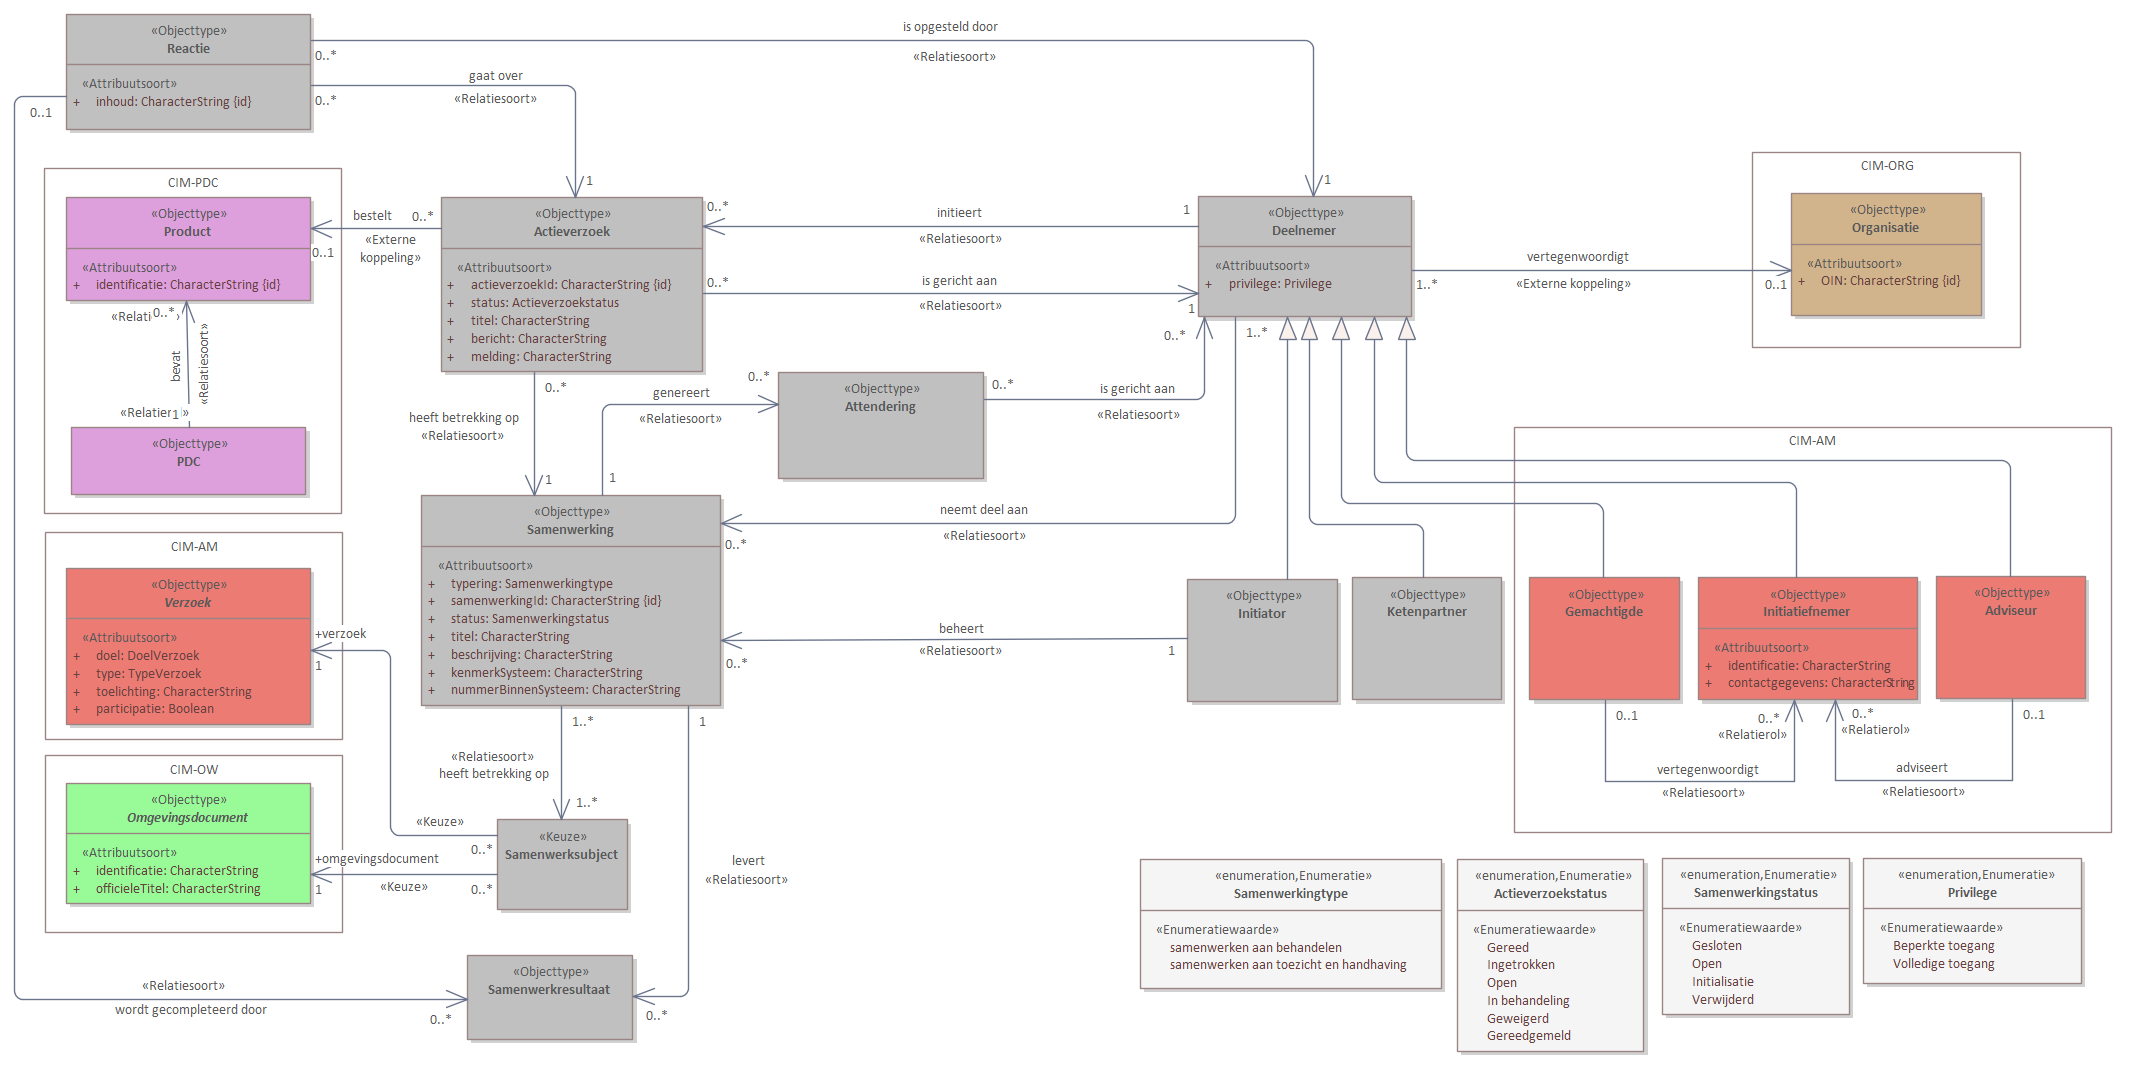
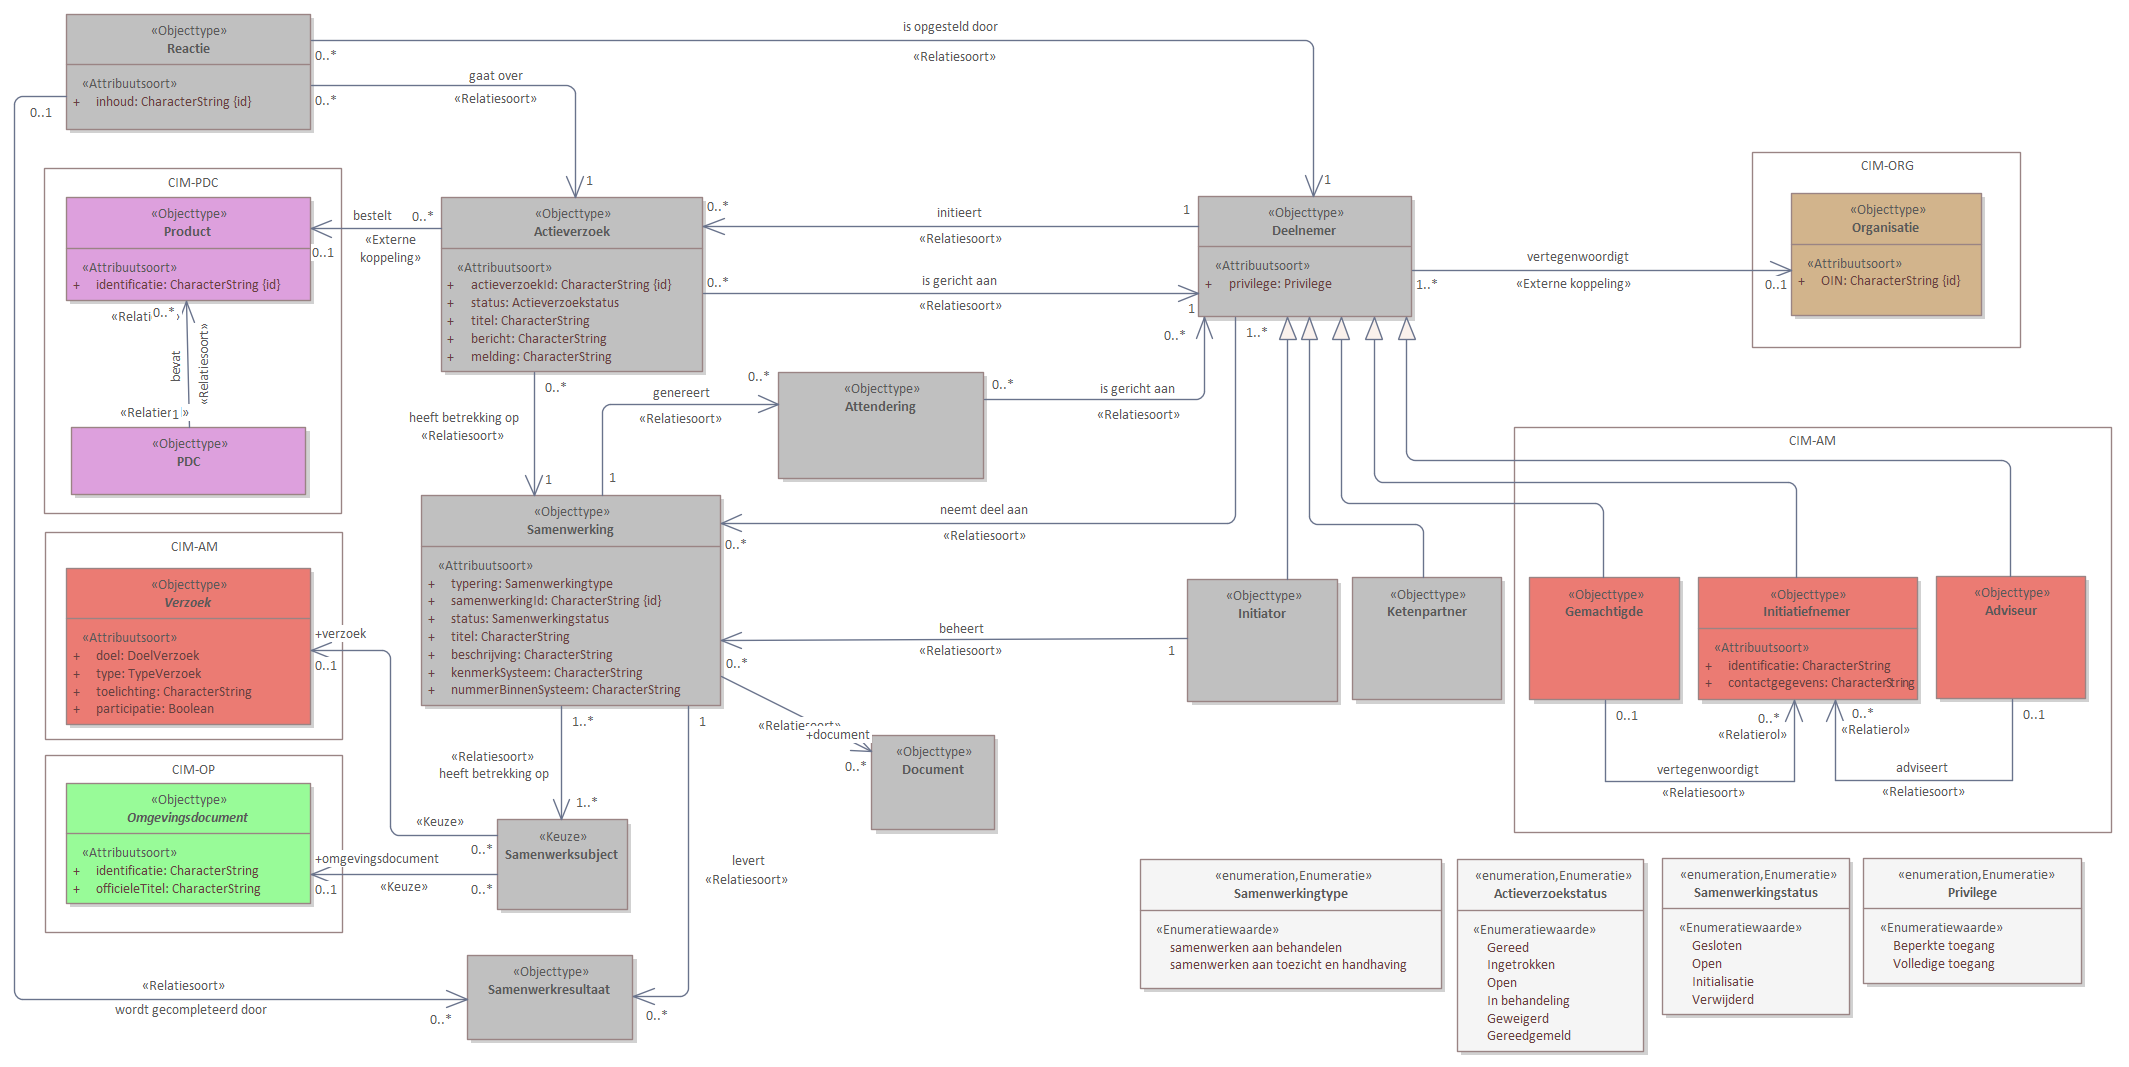
MIMCM-dso-cim-swf-1.0-0-20250101-20250416-142529

Changed region(s): [[0.372, 0.6804, 0.496, 0.8041]]

diff --git a/data/dso-cim-swf-cat.respec.html b/data/dso-cim-swf-cat.respec.html
@@ -1,12 +1,12 @@
-<!DOCTYPE HTML><section id="cat" class="normative"><h2>Gegevensdefinitie</h2><!--MIMCM-dso-cim-swf-1.0-0-20250101-20250205-112045 imvertor 4.3.0--><section id="EAID_148B391E_CCDB_471c_A289_54DA7F6CA2B1"><h3>   Context - overzicht</h3><div class="imageinfo overview"><figure class="uml-diagram"><img id="EAID_148B391E_CCDB_471c_A289_54DA7F6CA2B1" src="data/Images/EAID_148B391E_CCDB_471c_A289_54DA7F6CA2B1.png" usemap="#imagemap-EAID_148B391E_CCDB_471c_A289_54DA7F6CA2B1" alt="Diagram: Context - overzicht"><figcaption> ‒ Diagram: Context</figcaption></figure><map name="imagemap-EAID_148B391E_CCDB_471c_A289_54DA7F6CA2B1"></map><p>
+<!DOCTYPE HTML><section id="cat" class="normative"><h2>Gegevensdefinitie</h2><!--MIMCM-dso-cim-swf-1.0-0-20250101-20250416-142529 imvertor 4.3.0--><section id="EAID_148B391E_CCDB_471c_A289_54DA7F6CA2B1"><h3>   Context - overzicht</h3><div class="imageinfo overview"><figure class="uml-diagram"><img id="EAID_148B391E_CCDB_471c_A289_54DA7F6CA2B1" src="data/Images/EAID_148B391E_CCDB_471c_A289_54DA7F6CA2B1.png" usemap="#imagemap-EAID_148B391E_CCDB_471c_A289_54DA7F6CA2B1" alt="Diagram: Context - overzicht"><figcaption> ‒ Diagram: Context</figcaption></figure><map name="imagemap-EAID_148B391E_CCDB_471c_A289_54DA7F6CA2B1"></map><p>
                         <p></p>
-                     </p></div></section><section id="EAID_C94DE3A6_BF9B_4ca3_ADEC_2B78A1F24327"><h3>   CIM-SWF - overzicht</h3><div class="imageinfo overview"><figure class="uml-diagram"><img id="EAID_C94DE3A6_BF9B_4ca3_ADEC_2B78A1F24327" src="data/Images/EAID_C94DE3A6_BF9B_4ca3_ADEC_2B78A1F24327.png" usemap="#imagemap-EAID_C94DE3A6_BF9B_4ca3_ADEC_2B78A1F24327" alt="Diagram: CIM-SWF - overzicht"><figcaption> ‒ Diagram: CIM-SWF</figcaption></figure><map name="imagemap-EAID_C94DE3A6_BF9B_4ca3_ADEC_2B78A1F24327"><area shape="rect" alt="Samenwerksubject" coords="497,819,628,910" href="#global_class_CIMSWF_Samenwerksubject"><area shape="rect" alt="Reactie" coords="66,14,311,130" href="#global_class_CIMSWF_Reactie"><area shape="rect" alt="Samenwerkresultaat" coords="467,955,633,1040" href="#global_class_CIMSWF_Samenwerkresultaat"><area shape="rect" alt="Actieverzoekstatus" coords="1457,859,1644,1052" href="#detail_class_CIMSWF_Actieverzoekstatus"><area shape="rect" alt="Samenwerkingstatus" coords="1662,858,1850,1015" href="#detail_class_CIMSWF_Samenwerkingstatus"><area shape="rect" alt="Privilege" coords="1863,858,2082,984" href="#detail_class_CIMSWF_Privilege"><area shape="rect" alt="Samenwerkingtype" coords="1140,859,1442,989" href="#detail_class_CIMSWF_Samenwerkingtype"><area shape="rect" alt="Attendering" coords="778,372,984,479" href="#global_class_CIMSWF_Attendering"><area shape="rect" alt="Actieverzoek" coords="441,197,703,372" href="#global_class_CIMSWF_Actieverzoek"><area shape="rect" alt="Ketenpartner" coords="1352,577,1502,700" href="#global_class_CIMSWF_Ketenpartner"><area shape="rect" alt="Initiator" coords="1187,579,1338,702" href="#global_class_CIMSWF_Initiator"><area shape="rect" alt="Deelnemer" coords="1198,196,1412,317" href="#global_class_CIMSWF_Deelnemer"><area shape="rect" alt="Samenwerking" coords="421,495,721,706" href="#global_class_CIMSWF_Samenwerking"></map><p>
+                     </p></div></section><section id="EAID_C94DE3A6_BF9B_4ca3_ADEC_2B78A1F24327"><h3>   CIM-SWF - overzicht</h3><div class="imageinfo overview"><figure class="uml-diagram"><img id="EAID_C94DE3A6_BF9B_4ca3_ADEC_2B78A1F24327" src="data/Images/EAID_C94DE3A6_BF9B_4ca3_ADEC_2B78A1F24327.png" usemap="#imagemap-EAID_C94DE3A6_BF9B_4ca3_ADEC_2B78A1F24327" alt="Diagram: CIM-SWF - overzicht"><figcaption> ‒ Diagram: CIM-SWF</figcaption></figure><map name="imagemap-EAID_C94DE3A6_BF9B_4ca3_ADEC_2B78A1F24327"><area shape="rect" alt="Samenwerksubject" coords="497,819,628,910" href="#global_class_CIMSWF_Samenwerksubject"><area shape="rect" alt="Reactie" coords="66,14,311,130" href="#global_class_CIMSWF_Reactie"><area shape="rect" alt="Samenwerkresultaat" coords="467,955,633,1040" href="#global_class_CIMSWF_Samenwerkresultaat"><area shape="rect" alt="Actieverzoekstatus" coords="1457,859,1644,1052" href="#detail_class_CIMSWF_Actieverzoekstatus"><area shape="rect" alt="Samenwerkingstatus" coords="1662,858,1850,1015" href="#detail_class_CIMSWF_Samenwerkingstatus"><area shape="rect" alt="Privilege" coords="1863,858,2082,984" href="#detail_class_CIMSWF_Privilege"><area shape="rect" alt="Samenwerkingtype" coords="1140,859,1442,989" href="#detail_class_CIMSWF_Samenwerkingtype"><area shape="rect" alt="Attendering" coords="778,372,984,479" href="#global_class_CIMSWF_Attendering"><area shape="rect" alt="Actieverzoek" coords="441,197,703,372" href="#global_class_CIMSWF_Actieverzoek"><area shape="rect" alt="Ketenpartner" coords="1352,577,1502,700" href="#global_class_CIMSWF_Ketenpartner"><area shape="rect" alt="Initiator" coords="1187,579,1338,702" href="#global_class_CIMSWF_Initiator"><area shape="rect" alt="Deelnemer" coords="1198,196,1412,317" href="#global_class_CIMSWF_Deelnemer"><area shape="rect" alt="Samenwerking" coords="421,495,721,706" href="#global_class_CIMSWF_Samenwerking"><area shape="rect" alt="Document" coords="871,735,995,830" href="#global_class_CIMSWF_Document"></map><p>
                         <p></p>
                      </p></div></section><section><h3>Objecttypen   </h3>
             <section id="global_class_CIMSWF_Samenwerkresultaat"><h4>   Samenwerkresultaat</h4>
                <table style="width: 100%;"><colgroup style="width: 30%;"></colgroup><colgroup style="width: 70%;"></colgroup><tbody><tr><th>Naam</th><td>Samenwerkresultaat</td></tr><tr><th>Definitie</th><td>
                         
-                              <p>Digitaal artefact dat ontstaat tijdens de samenwerking, of resulteert als uitkomst van een samenwerking, en dat wordt bewaard in het samenwerkdossier.</p>
+                              <p>Uitkomst van de samenwerking, bijvoorbeeld een beslissing genomen over een vergunningsaanvraag.</p>
                            
                      </td></tr><tr><th>Indicatie abstract object</th><td>Nee</td></tr></tbody></table>
             </section>
@@ -141,6 +141,16 @@
                <h5>Overzicht relaties  </h5>
                   <table style="width: 100%;"><colgroup style="width: 50%;"></colgroup><colgroup style="width: 50%;"></colgroup><tbody><tr><th>Relatienaam met kardinaliteiten</th><th>Definitie</th></tr><tr><td>
                            Samenwerking
+                           [ 1 ]
+                           
+                              <a class="link" href="#detail_association_CIMSWF_Samenwerking_document">document: document</a>
+                           
+                           
+                              <a class="link" href="#global_class_CIMSWF_Document">Document</a>
+                           
+                           [ 0 .. * ]
+                        </td><td></td></tr><tr><td>
+                           Samenwerking
                            [ 1 .. * ]
                            
                               <a class="link" href="#detail_association_CIMSWF_Samenwerking_heeftbetrekkingop">heeft betrekking op</a>
@@ -172,6 +182,13 @@
                         </td><td></td></tr></tbody></table>
                   
                
+            </section>
+            <section id="global_class_CIMSWF_Document"><h4>   Document</h4>
+               <table style="width: 100%;"><colgroup style="width: 30%;"></colgroup><colgroup style="width: 70%;"></colgroup><tbody><tr><th>Naam</th><td>Document</td></tr><tr><th>Definitie</th><td>
+                        
+                              <p>Document dat betrekking heeft op de samenwerking</p>
+                           
+                     </td></tr><tr><th>Indicatie abstract object</th><td>Nee</td></tr></tbody></table>
             </section>
             <section id="global_class_CIMSWF_Deelnemer"><h4>   Deelnemer</h4>
                <table style="width: 100%;"><colgroup style="width: 30%;"></colgroup><colgroup style="width: 70%;"></colgroup><tbody><tr><th>Naam</th><td>Deelnemer</td></tr><tr><th>Definitie</th><td>
@@ -351,7 +368,7 @@
             <section id="global_class_CIMSWF_Samenwerksubject"><h4>   Samenwerksubject</h4>
                <table style="width: 100%;"><colgroup style="width: 30%;"></colgroup><colgroup style="width: 70%;"></colgroup><tbody><tr><th>Naam</th><td>Samenwerksubject</td></tr><tr><th>Definitie</th><td>
                         
-                              <p>Het artefact waarop de samenwerking is gebaseerd. Bij samenwerken aan behandelen is dit een verzoek, bij samenwerken aan toezicht en handhaving is dat een omgevingsvergunning (omgevingsdocument).</p>
+                              <p>Het onderwerp van de samenwerking. Bij samenwerken aan behandelen is dit een verzoek, bij samenwerken aan toezicht en handhaving kan dat een omgevingsvergunning (omgevingsdocument) zijn. Ook, andere (nog) niet-geformaliseerde entiteiten kunnen onderwerp van samenwerking zijn. De opsomming in het model is dus niet-limitatief.</p>
                            
                      </td></tr></tbody></table>
             </section>
@@ -450,6 +467,12 @@
                                  
                            </td></tr><tr><th>Formaat</th><td>CHARACTERSTRING</td></tr><tr><th>Kardinaliteit</th><td>1</td></tr><tr><th>Indicatie classificerend</th><td>Nee</td></tr><tr><th>Mogelijk geen waarde</th><td>Nee</td></tr><tr><th>Indicatie identificerend</th><td>Nee</td></tr></tbody></table>
                   </section>
+                  <section id="detail_association_CIMSWF_Samenwerking_document"><h6>Relatiesoort details  <a href="#global_class_CIMSWF_Samenwerking">Samenwerking</a> document</h6>
+                     <table style="width: 100%;"><colgroup style="width: 30%;"></colgroup><colgroup style="width: 70%;"></colgroup><tbody><tr><th>Naam</th><td>document</td></tr><tr><th>Gerelateerd objecttype</th><td>
+                              <a class="link" href="#global_class_CIMSWF_Document">Document</a>
+                           </td></tr><tr><th>Kardinaliteit</th><td>0 .. *</td></tr><tr><th>Mogelijk geen waarde</th><td>Nee</td></tr></tbody></table>
+                     
+                  </section>
                   <section id="detail_association_CIMSWF_Samenwerking_heeftbetrekkingop"><h6>Relatiesoort details  <a href="#global_class_CIMSWF_Samenwerking">Samenwerking</a> heeft betrekking op</h6>
                      <table style="width: 100%;"><colgroup style="width: 30%;"></colgroup><colgroup style="width: 70%;"></colgroup><tbody><tr><th>Naam</th><td>heeft betrekking op</td></tr><tr><th>Gerelateerd objecttype</th><td>
                               
@@ -478,6 +501,7 @@
                      
                   </section>
                </section>
+               
                <section id="detail_class_CIMSWF_Deelnemer"><h5>   Deelnemer</h5>
                   <section id="detail_attribute_CIMSWF_Deelnemer_privilege"><h6>Attribuutsoort details  <a href="#global_class_CIMSWF_Deelnemer">Deelnemer</a> privilege</h6>
                      <table style="width: 100%;"><colgroup style="width: 30%;"></colgroup><colgroup style="width: 70%;"></colgroup><tbody><tr><th>Naam</th><td>privilege</td></tr><tr><th>Definitie</th><td>
@@ -589,20 +613,20 @@
                   <section id="detail_association_CIMSWF_Samenwerksubject_omgevingsdocument"><h6>Relatiesoort details  <a href="#global_class_CIMSWF_Samenwerksubject">Samenwerksubject</a> omgevingsdocument</h6>
                      <table style="width: 100%;"><colgroup style="width: 30%;"></colgroup><colgroup style="width: 70%;"></colgroup><tbody><tr><th>Naam</th><td>omgevingsdocument</td></tr><tr><th>Gerelateerd objecttype</th><td>
                               <a class="external-link" href="https://geonovum.github.io/dso-cim-op/#Omgevingsdocument">Omgevingsdocument</a>
-                           </td></tr><tr><th>Kardinaliteit</th><td>1</td></tr></tbody></table>
+                           </td></tr><tr><th>Kardinaliteit</th><td>0 .. 1</td></tr></tbody></table>
                      
                   </section>
                   <section id="detail_association_CIMSWF_Samenwerksubject_verzoek"><h6>Relatiesoort details  <a href="#global_class_CIMSWF_Samenwerksubject">Samenwerksubject</a> verzoek</h6>
                      <table style="width: 100%;"><colgroup style="width: 30%;"></colgroup><colgroup style="width: 70%;"></colgroup><tbody><tr><th>Naam</th><td>verzoek</td></tr><tr><th>Gerelateerd objecttype</th><td>
                               <a class="external-link" href="https://geonovum.github.io/dso-cim-am/#Verzoek">Verzoek</a>
-                           </td></tr><tr><th>Kardinaliteit</th><td>1</td></tr></tbody></table>
+                           </td></tr><tr><th>Kardinaliteit</th><td>0 .. 1</td></tr></tbody></table>
                      
                   </section>
                </section>
             </section>
             
             
-         </section></section><section id="lis" class="normative"><h2>Inhoud van waardelijsten</h2><!--MIMCM-dso-cim-swf-1.0-0-20250101-20250205-112045 imvertor 4.3.0--><section id="detail_class_CIMSWF_Actieverzoekstatus"><h3>Enumeratie details  Actieverzoekstatus</h3>
+         </section></section><section id="lis" class="normative"><h2>Inhoud van waardelijsten</h2><!--MIMCM-dso-cim-swf-1.0-0-20250101-20250416-142529 imvertor 4.3.0--><section id="detail_class_CIMSWF_Actieverzoekstatus"><h3>Enumeratie details  Actieverzoekstatus</h3>
             <table style="width: 100%;" class="list"><colgroup></colgroup><tbody><tr><td></td></tr></tbody></table>
             <table style="width: 100%;" class="list"><colgroup style="width: 40%;"></colgroup><colgroup style="width: 60%;"></colgroup><tbody><tr><th>Waarde</th><th>Omschrijving</th></tr><tr><th>Gereed</th><td>
                      <p>Het actieverzoek is afgerond. Het resultaat is geaccepteerd door de opdrachtgevende deelnemer.</p>
